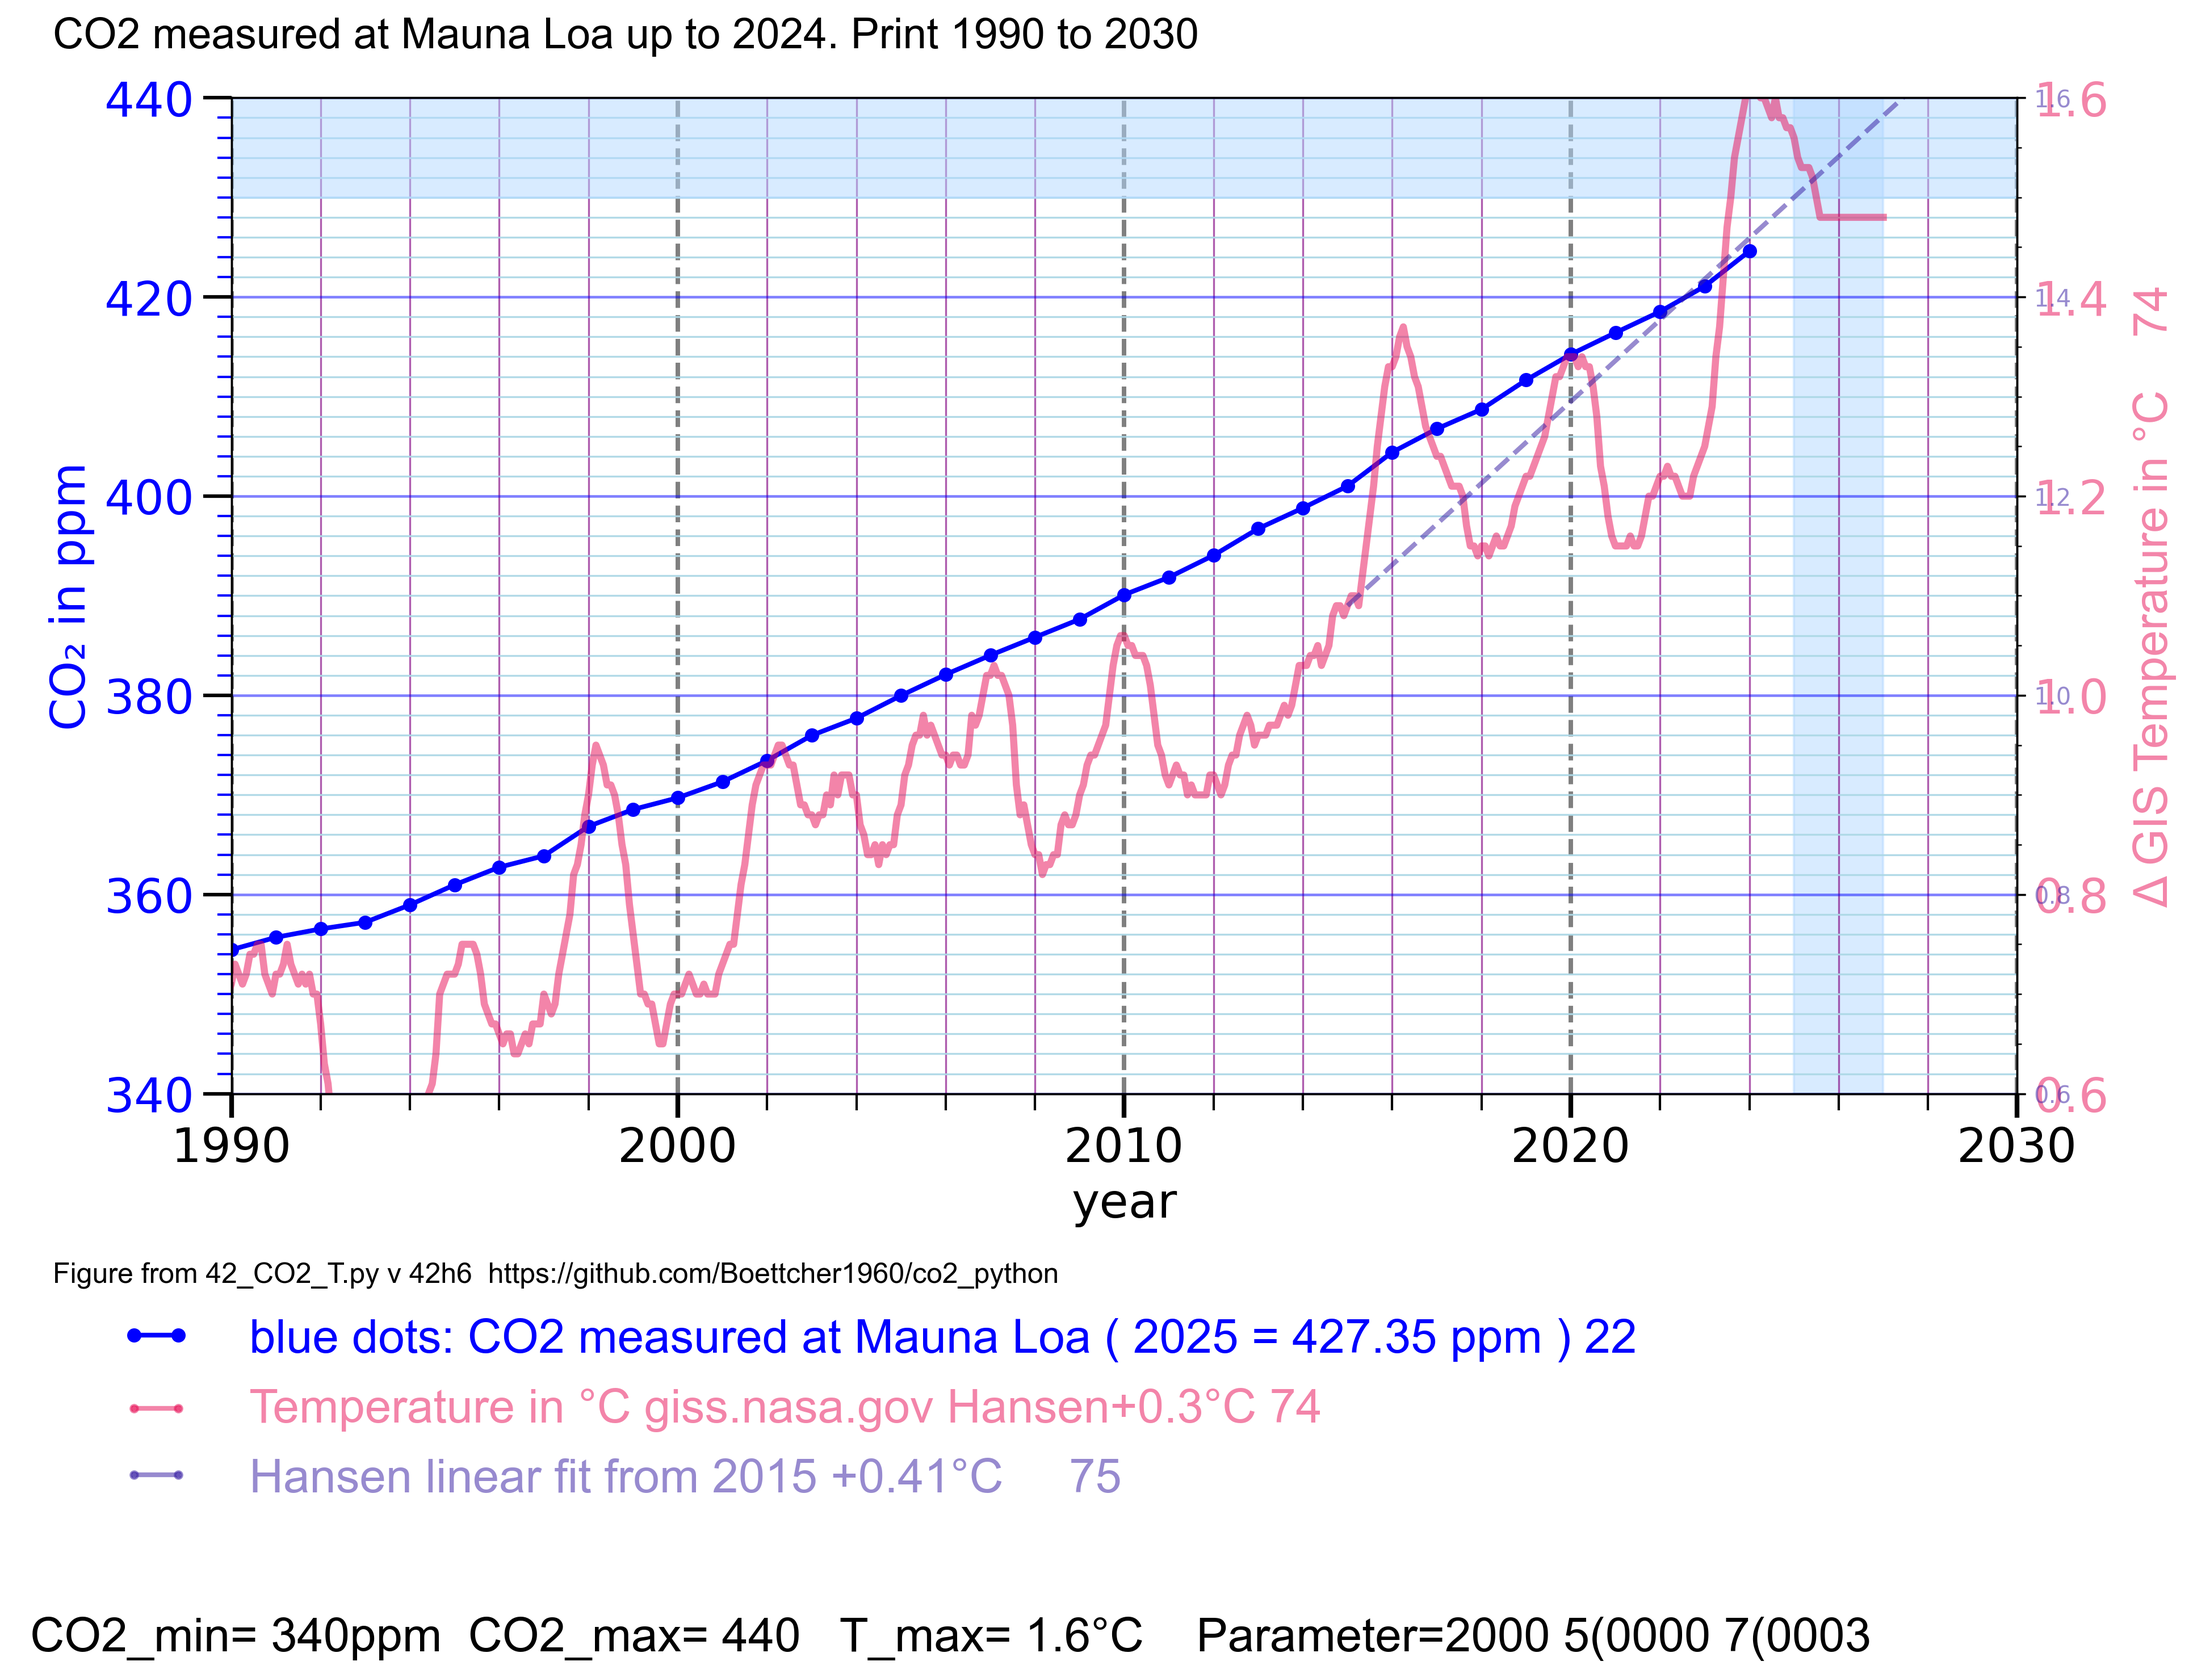
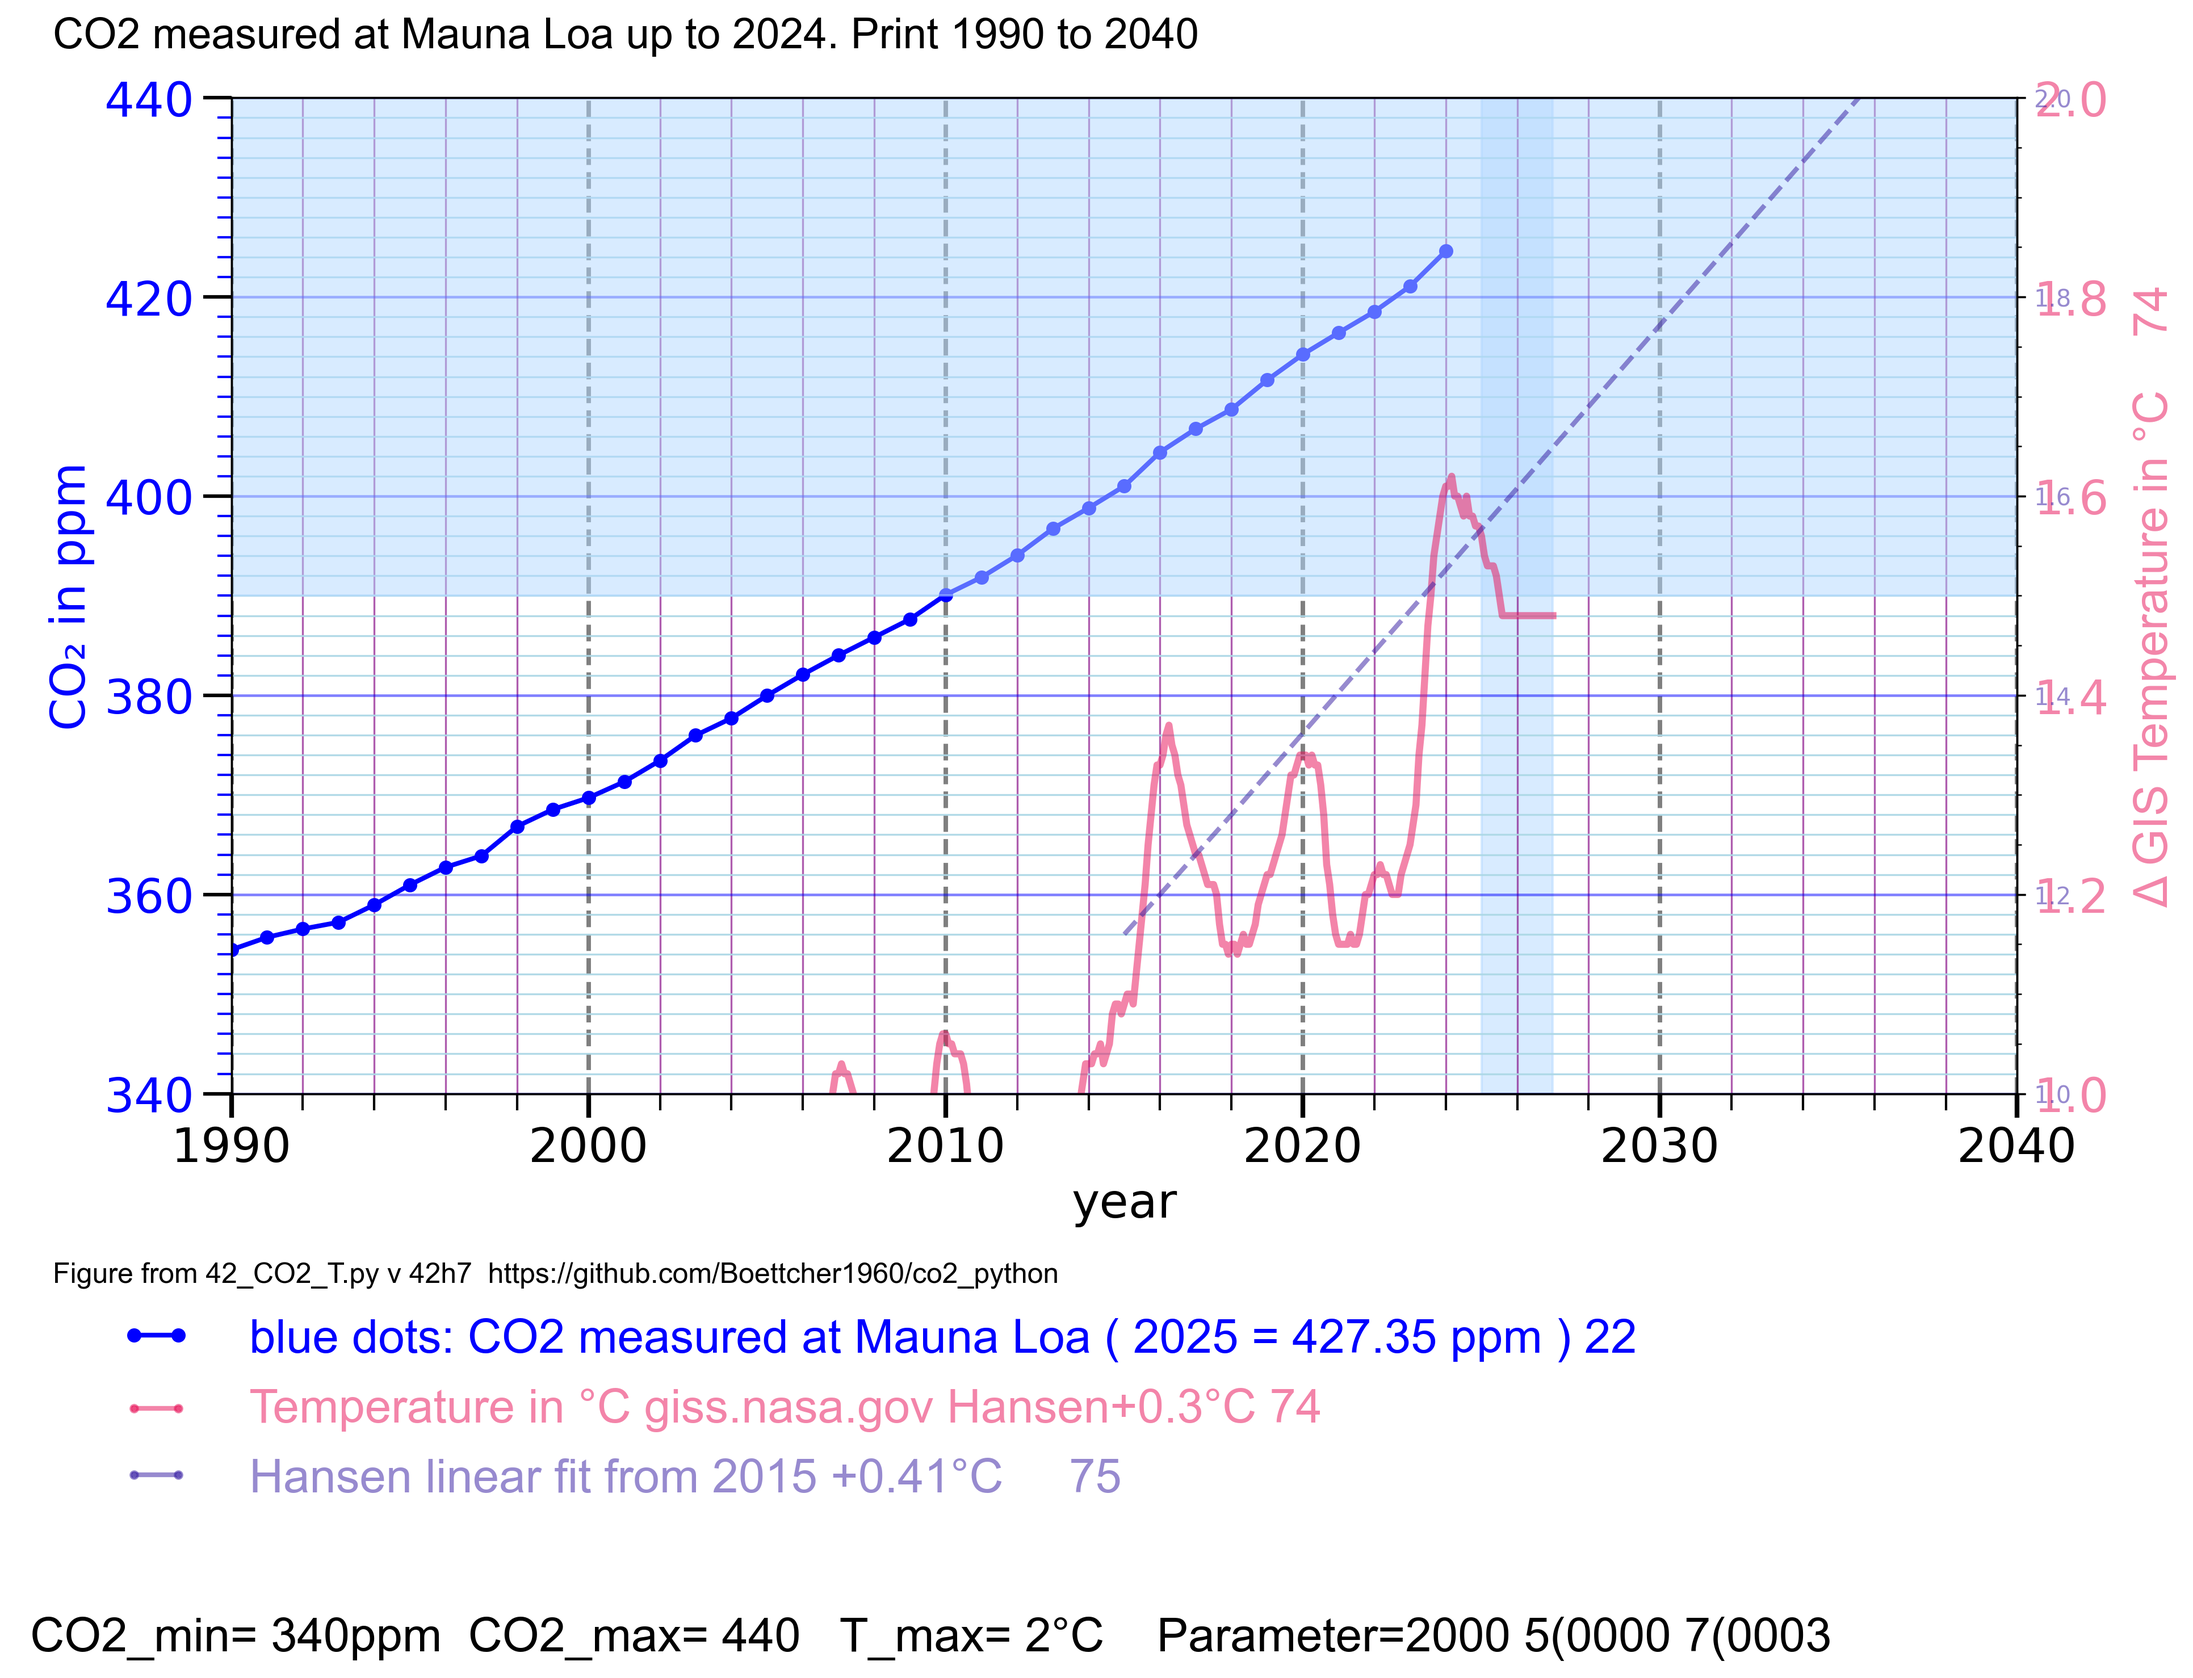
v = "42h7" #  Hansen 2015 .41°C linear fit

diff --git a/42_CO2_T.py b/42_CO2_T.py
@@ -1,5 +1,5 @@
 # 42_CO2_T.py 
-v = "42h6" #  Hansen 2015 .41°C linear fit
+v = "42h7" #  Hansen 2015 .41°C linear fit
 # Thomas Boettcher
 # part 1 configure 
 # part 2.2 plot CO2 Mauna Loa
@@ -88,11 +88,11 @@ y_min = 340 # 300 # min value 280
 y_max = 440 # 1300 # min value 440 70
 
 # 1.3.2 scale the right Y axis
-y_Tmin = 0.6 # min value °C
-y_Tmax = 1.6 # 4 # max value C
+y_Tmin = 1 # min value °C
+y_Tmax = 2 # 4 # max value C
 
 x_anf = 1990 # 1960 2000 -33000
-x_end = 2030 # 2200 2026 
+x_end = 2040 # 2200 2026 
 
 # 1.4.5 scale the text rows below the plot field
 tr1x = -0.09 # text row 1 x value -.3...1 -0.12
